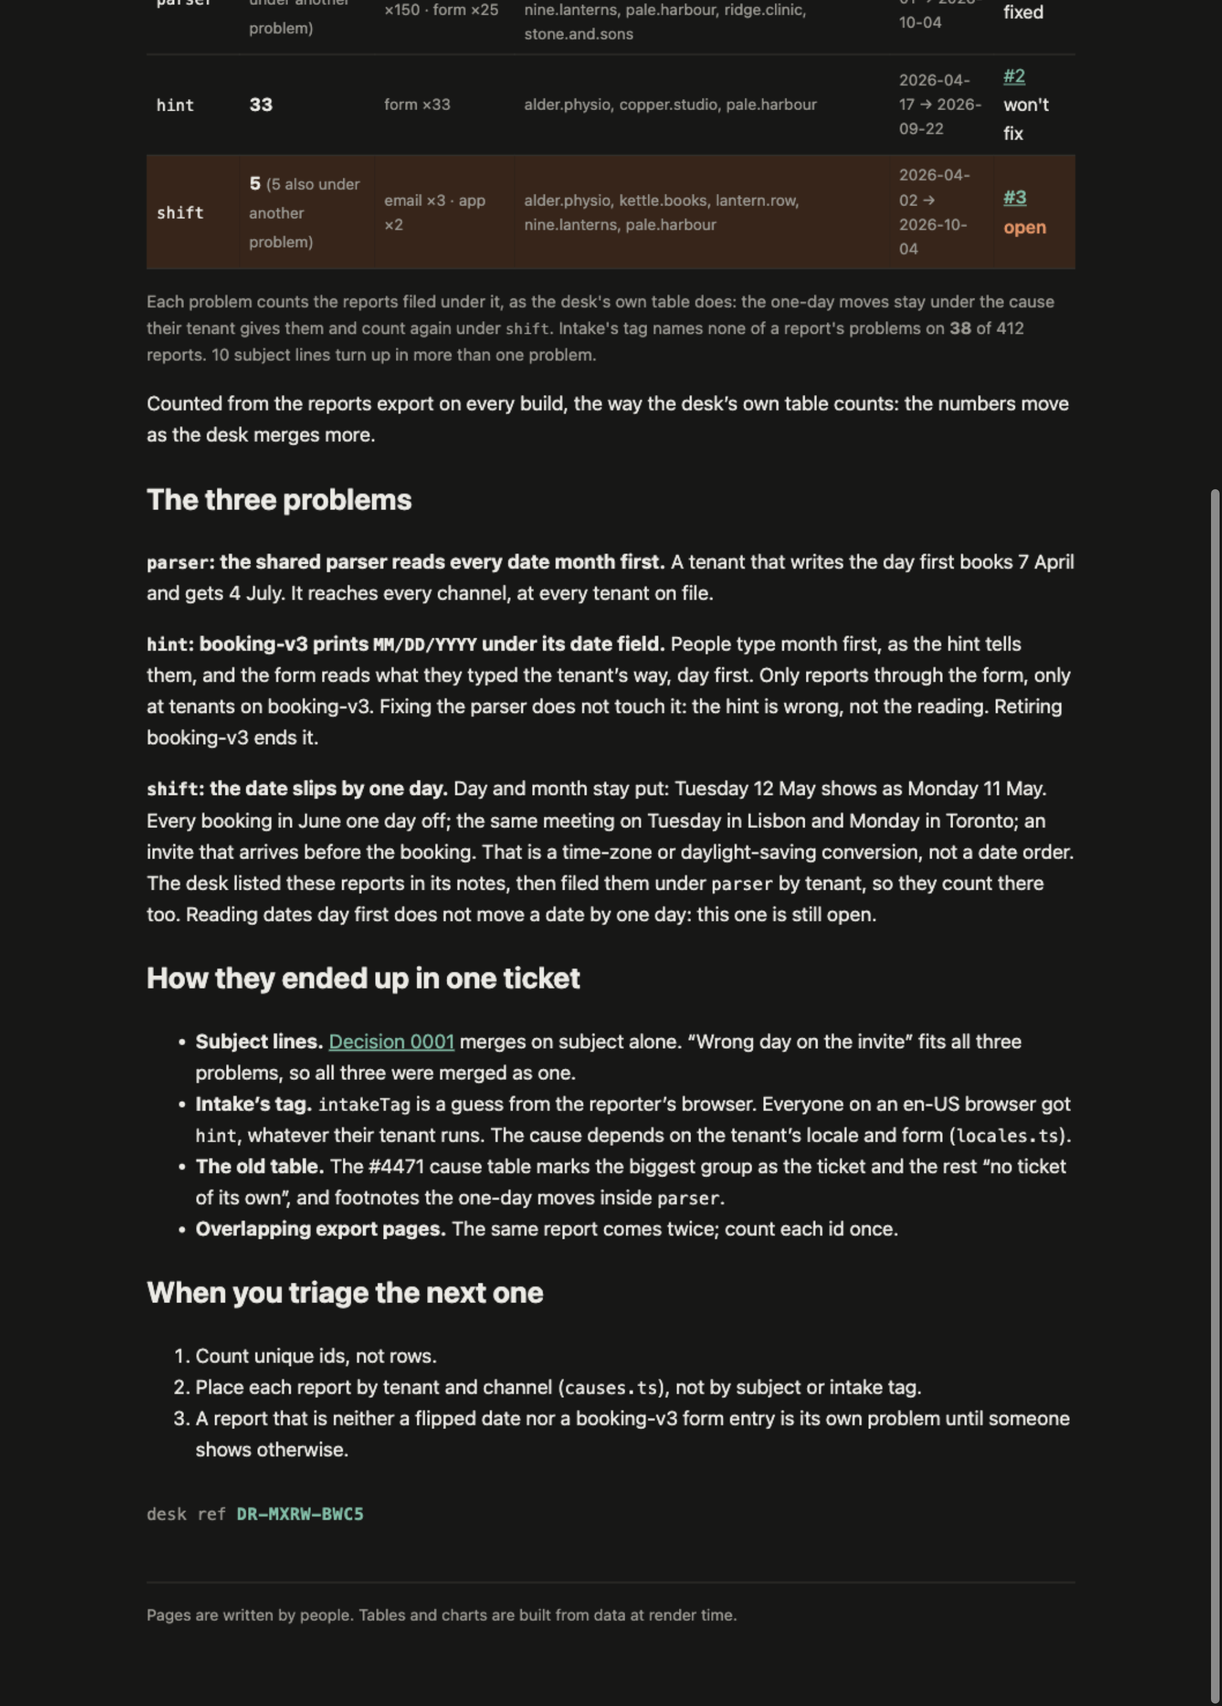
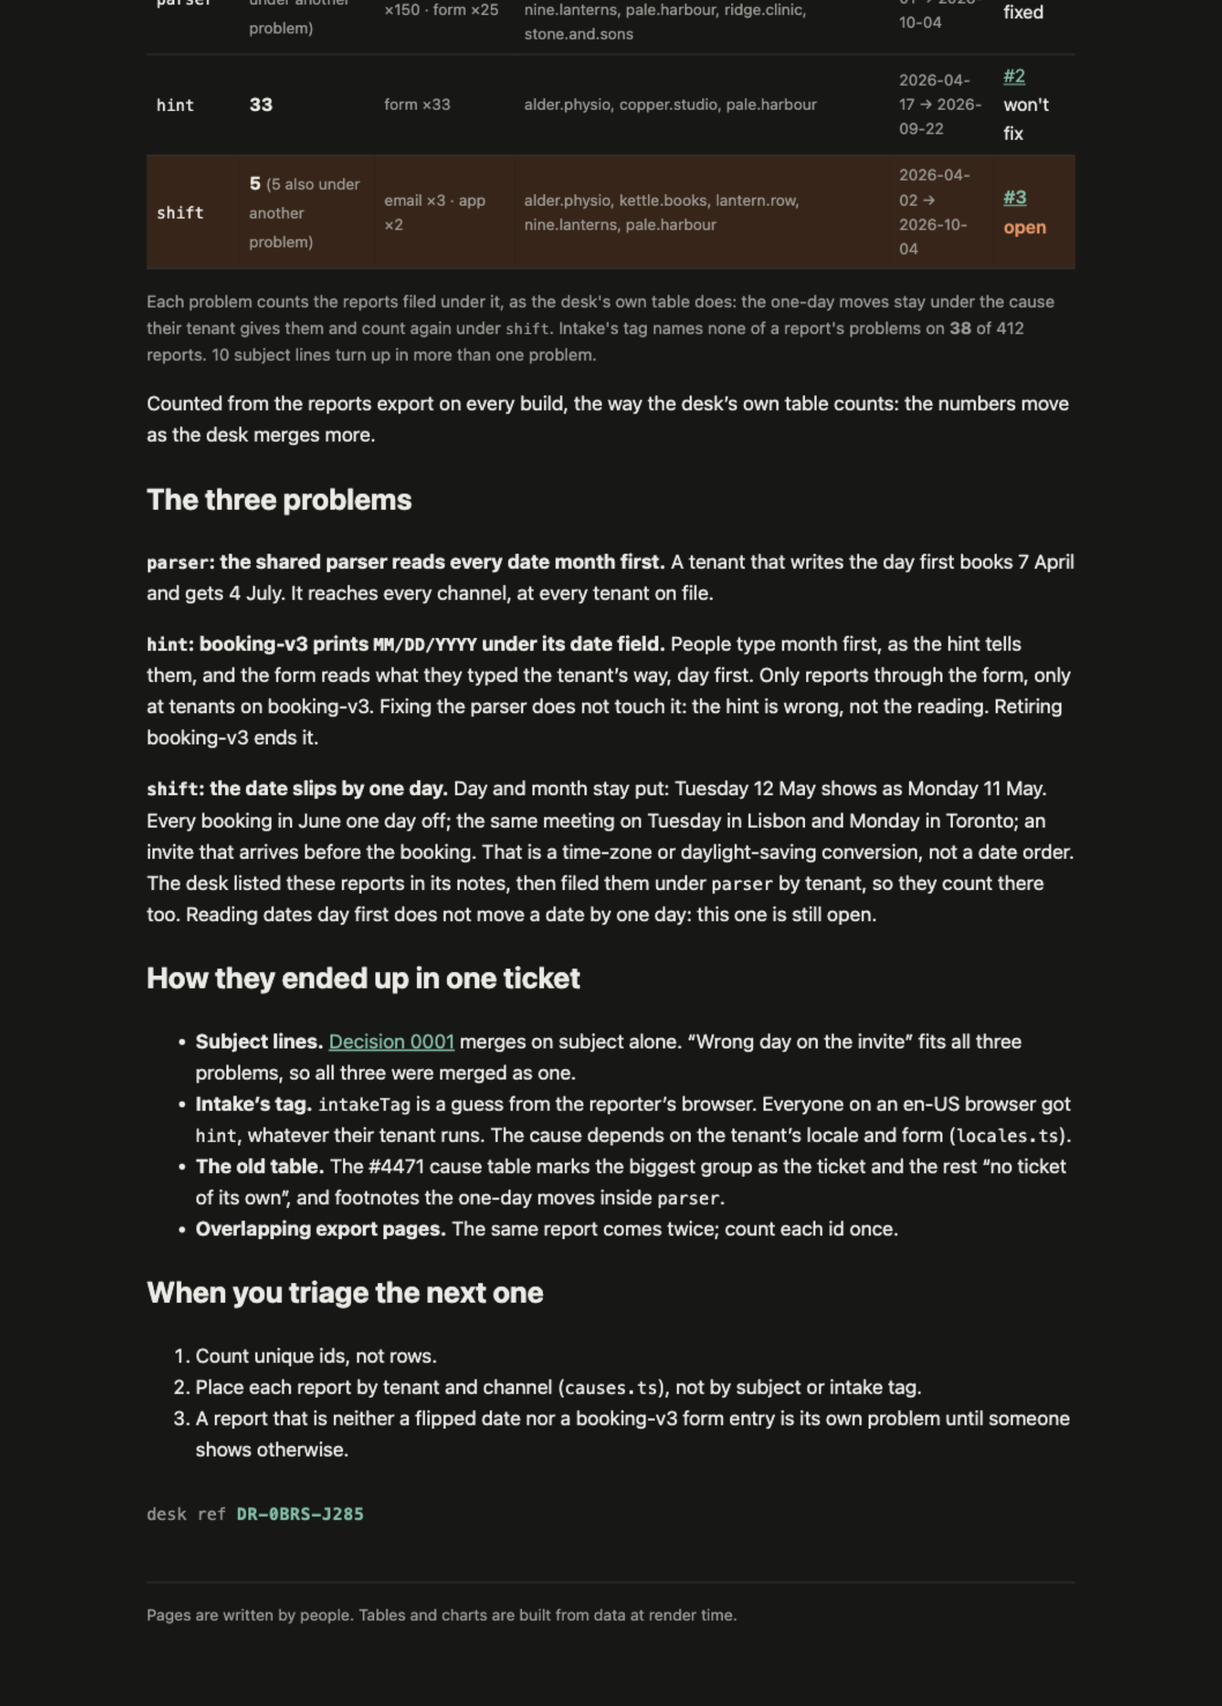
kb: sign the #4471 split page with the course ticket

Changed region(s): [[0.992, 0.2806, 1.0, 1.0], [0.217, 0.8731, 0.279, 0.9043]]

diff --git a/rendered/_app/immutable/chunks/CUmSeKXx.js b/rendered/_app/immutable/chunks/CUmSeKXx.js
@@ -2,7 +2,7 @@ import{t as e}from"./DK3Fl9T5.js";import{E as t,F as n,H as r,I as i,K as a,L as
   under the cause their tenant gives them and count again under <code>shift</code>. Intake's tag names none
   of a report's problems on <strong> </strong> </p>`,1);function L(e,t){p(t,!0);let a=y(t,`issues`,19,()=>({})),d=r(()=>M(T,t.ticket,k,E.oneDayMove)),x=e=>Object.entries(e).sort((e,t)=>t[1]-e[1]).map(([e,t])=>`${e} ×${t}`).join(` · `),S=e=>`#${e.split(`/`).pop()}`;var w=I(),D=i(w),O=n(D),A=o(O,!0),j=l(O),L=l(j),R=o(L,!0),z=l(L);b(D);var B=l(D,2),V=l(n(B));_(V,21,()=>v(d).groups,e=>e.problem,(e,t)=>{let d=r(()=>a()[v(t).problem]);var f=F();let p;var _=n(f),y=n(_),w=o(y,!0);b(_);var T=l(_),E=n(T),D=o(E,!0),O=l(E,2),k=e=>{var n=N(),r=o(n);s(()=>u(r,`(${v(t).shared??``} also under another problem)`)),C(e,n)};m(O,e=>{v(t).shared&&e(k)}),b(T);var A=l(T),j=o(A,!0),M=l(A),I=o(M,!0),L=l(M),R=o(L),z=l(L),B=n(z),V=e=>{var t=P(),n=i(t),r=o(n,!0),a=l(n);s(e=>{h(n,`href`,v(d).url),u(r,e),u(a,` ${v(d).state??``}`)},[()=>S(v(d).url)]),C(e,t)},H=e=>{var t=c(`no ticket yet`);C(e,t)};m(B,e=>{v(d)?e(V):e(H,-1)}),b(z),b(f),s((e,n)=>{p=g(f,1,`svelte-xskqqx`,null,p,{open:!v(d)||v(d).state===`open`}),u(w,v(t).problem),u(D,v(t).reports.length),u(j,e),u(I,n),u(R,`${v(t).firstSeen??``} → ${v(t).lastSeen??``}`)},[()=>x(v(t).channels),()=>v(t).tenants.join(`, `)]),C(e,f)}),b(V),b(B);var H=l(B,2),U=l(n(H),3),W=o(U,!0),G=l(U);b(H),s(()=>{u(A,v(d).merged.length),u(j,` reports merged into #${t.ticket??``}
   (${v(d).rows??``} rows in the export, ${v(d).rows-v(d).merged.length} of them repeats) · `),u(R,v(d).groups.length),u(z,` ${v(d).groups.length===1?`problem`:`problems`}`),u(W,v(d).mistagged),u(G,` of ${v(d).merged.length??``} reports.
-  ${v(d).sharedSubjects.length??``} subject lines turn up in more than one problem.`)}),C(e,w),f()}var R=`0123456789ABCDEFGHJKMNPQRSTVWXYZ`;function z(e,t){let n=t>>>0;for(let t=0;t<e.length;t++)n^=e.charCodeAt(t),n=Math.imul(n,16777619)>>>0;return n}function B(e){let t=e.trim(),n=z(t,2166136261),r=z(t,2654435769),i=BigInt(n)<<8n|BigInt(r&255),a=``;for(let e=0;e<8;e++)a=R[Number(i&31n)]+a,i>>=5n;return`DR-${a.slice(0,4)}-${a.slice(4)}`}var V=t(`<p class="stamp svelte-1280m42">desk ref <b class="svelte-1280m42"> </b></p>`),H=t(`<p class="stamp missing svelte-1280m42">no desk ref: this page isn't signed (no <code>signature</code> in its frontmatter)</p>`);function U(e,t){p(t,!0);let a=r(()=>t.signature?B(t.signature):null);var c=d(),h=i(c),g=e=>{var t=V(),r=l(n(t)),i=o(r,!0);b(t),s(()=>u(i,v(a))),C(e,t)},_=e=>{var t=H();C(e,t)};m(h,e=>{v(a)?e(g):e(_,-1)}),C(e,c),f()}var W=e({default:()=>$,metadata:()=>G}),G={layout:`runbook`,title:`#4471 split: three problems, not one`,owner:`support desk`,status:`open`,reviewed:`2026-10-28T00:00:00.000Z`,signature:`Diego Peter Luna`},{layout:K,title:q,owner:J,status:Y,reviewed:ee,signature:X}=G,Z=t(`#4471 is closed, but <code>shift</code> is not fixed: neither change touches it. Reports of dates one
+  ${v(d).sharedSubjects.length??``} subject lines turn up in more than one problem.`)}),C(e,w),f()}var R=`0123456789ABCDEFGHJKMNPQRSTVWXYZ`;function z(e,t){let n=t>>>0;for(let t=0;t<e.length;t++)n^=e.charCodeAt(t),n=Math.imul(n,16777619)>>>0;return n}function B(e){let t=e.trim(),n=z(t,2166136261),r=z(t,2654435769),i=BigInt(n)<<8n|BigInt(r&255),a=``;for(let e=0;e<8;e++)a=R[Number(i&31n)]+a,i>>=5n;return`DR-${a.slice(0,4)}-${a.slice(4)}`}var V=t(`<p class="stamp svelte-1280m42">desk ref <b class="svelte-1280m42"> </b></p>`),H=t(`<p class="stamp missing svelte-1280m42">no desk ref: this page isn't signed (no <code>signature</code> in its frontmatter)</p>`);function U(e,t){p(t,!0);let a=r(()=>t.signature?B(t.signature):null);var c=d(),h=i(c),g=e=>{var t=V(),r=l(n(t)),i=o(r,!0);b(t),s(()=>u(i,v(a))),C(e,t)},_=e=>{var t=H();C(e,t)};m(h,e=>{v(a)?e(g):e(_,-1)}),C(e,c),f()}var W=e({default:()=>$,metadata:()=>G}),G={layout:`runbook`,title:`#4471 split: three problems, not one`,owner:`support desk`,status:`open`,reviewed:`2026-10-28T00:00:00.000Z`,signature:`v1.eyJzdWIiOiIzNDQiLCJhdWQiOiJjaGFsbGVuZ2U6d2hhdC1pdC1zaG93cyIsImlhdCI6MTc5MzIwNzUzNCwiZXhwIjoxNzkzMjkzOTM0fQ.bRTobjvhvHYisSrKgQRkIaAMMaDitkZ7PEZmob9CIX8`},{layout:K,title:q,owner:J,status:Y,reviewed:ee,signature:X}=G,Z=t(`#4471 is closed, but <code>shift</code> is not fixed: neither change touches it. Reports of dates one
 day off keep coming in. Do not merge them into a closed ticket; they go to <code>shift</code>.`,1),Q=t(`<p><a href="/kb/incidents/4471">#4471</a> says every report in it is one bug: the parser reads dates month first.
 Read report by report, it holds three problems. Each has its own ticket.</p> <p>Engineering closed #4471 on 5 October: <code>parser</code> fixed (<code>fix(dates): parse dd/mm for eu locales</code>), <code>hint</code> won’t fix (the booking-v3 form is retired).</p> <!> <h2>The split</h2> <!> <p>Counted from the reports export on every build, the way the desk’s own table counts: the numbers move as the desk merges more.</p> <h2>The three problems</h2> <p><strong><code>parser</code>: the shared parser reads every date month first.</strong> A tenant that writes the day first
 books 7 April and gets 4 July. It reaches every channel, at every tenant on file.</p> <p><strong><code>hint</code>: booking-v3 prints <code>MM/DD/YYYY</code> under its date field.</strong> People type month first, as the hint

diff --git a/rendered/kb/incidents/4471-split.html b/rendered/kb/incidents/4471-split.html
@@ -9,11 +9,11 @@
 		<link href="../../_app/immutable/chunks/B2Ul7l_u.js" rel="modulepreload">
 		<link href="../../_app/immutable/chunks/BCPXOG7W.js" rel="modulepreload">
 		<link href="../../_app/immutable/chunks/Dh1V97Jm.js" rel="modulepreload">
-		<link href="../../_app/immutable/entry/app.DcC4sQon.js" rel="modulepreload">
+		<link href="../../_app/immutable/entry/app.DcuKkazr.js" rel="modulepreload">
 		<link href="../../_app/immutable/nodes/0.C9KfiiPz.js" rel="modulepreload">
 		<link href="../../_app/immutable/chunks/DK3Fl9T5.js" rel="modulepreload">
-		<link href="../../_app/immutable/nodes/5.CWqISRzL.js" rel="modulepreload">
-		<link href="../../_app/immutable/chunks/DwB3CDpc.js" rel="modulepreload">
+		<link href="../../_app/immutable/nodes/5.DaVnQy-G.js" rel="modulepreload">
+		<link href="../../_app/immutable/chunks/CUmSeKXx.js" rel="modulepreload">
 		<link href="../../_app/immutable/chunks/BTPwLomz.js" rel="modulepreload">
 		<link href="../../_app/immutable/chunks/CVBzP17p.js" rel="modulepreload">
 		<link href="../../_app/immutable/chunks/BIy4WKJS.js" rel="modulepreload">
@@ -39,20 +39,20 @@ invite that arrives before the booking. That is a time-zone or daylight-saving c
 order. The desk listed these reports in its notes, then filed them under <code>parser</code> by tenant, so they
 count there too. Reading dates day first does not move a date by one day: this one is still open.</p> <h2>How they ended up in one ticket</h2> <ul><li><strong>Subject lines.</strong> <a href="/kb/decisions/0001-dedupe-by-subject">Decision 0001</a> merges on subject alone.
 “Wrong day on the invite” fits all three problems, so all three were merged as one.</li> <li><strong>Intake’s tag.</strong> <code>intakeTag</code> is a guess from the reporter’s browser. Everyone on an en-US browser got <code>hint</code>, whatever their tenant runs. The cause depends on the tenant’s locale and form (<code>locales.ts</code>).</li> <li><strong>The old table.</strong> The #4471 cause table marks the biggest group as the ticket and the rest
-“no ticket of its own”, and footnotes the one-day moves inside <code>parser</code>.</li> <li><strong>Overlapping export pages.</strong> The same report comes twice; count each id once.</li></ul> <h2>When you triage the next one</h2> <ol><li>Count unique ids, not rows.</li> <li>Place each report by tenant and channel (<code>causes.ts</code>), not by subject or intake tag.</li> <li>A report that is neither a flipped date nor a booking-v3 form entry is its own problem until someone shows otherwise.</li></ol> <!--[0--><p class="stamp svelte-1280m42">desk ref <b class="svelte-1280m42">DR-MXRW-BWC5</b></p><!--]--><!----><!----></main> <footer class="svelte-e2jw2j">Pages are written by people. Tables and charts are built from data at render time.</footer></div><!--]--><!--]--><!--]--><!----><!--]--><!--]--><!--]--><!----> <!--[-1--><!--]--><!--]-->
+“no ticket of its own”, and footnotes the one-day moves inside <code>parser</code>.</li> <li><strong>Overlapping export pages.</strong> The same report comes twice; count each id once.</li></ul> <h2>When you triage the next one</h2> <ol><li>Count unique ids, not rows.</li> <li>Place each report by tenant and channel (<code>causes.ts</code>), not by subject or intake tag.</li> <li>A report that is neither a flipped date nor a booking-v3 form entry is its own problem until someone shows otherwise.</li></ol> <!--[0--><p class="stamp svelte-1280m42">desk ref <b class="svelte-1280m42">DR-0BRS-J285</b></p><!--]--><!----><!----></main> <footer class="svelte-e2jw2j">Pages are written by people. Tables and charts are built from data at render time.</footer></div><!--]--><!--]--><!--]--><!----><!--]--><!--]--><!--]--><!----> <!--[-1--><!--]--><!--]-->
 			
 			<script>
 				{
-					__sveltekit_12tmflj = {
+					__sveltekit_1jmv8e2 = {
 						base: new URL("../..", location).pathname.slice(0, -1),
-						version: "1793207479166"
+						version: "1793207543631"
 					};
 
 					const element = document.currentScript.parentElement;
 
 					import("../../_app/immutable/entry/start.CH5w6lId.js").then(async (kit) => {
-						kit.init(__sveltekit_12tmflj);
-						const app = await import("../../_app/immutable/entry/app.DcC4sQon.js");
+						kit.init(__sveltekit_1jmv8e2);
+						const app = await import("../../_app/immutable/entry/app.DcuKkazr.js");
 						kit.start(app, element, {
 							node_ids: [0, 5],
 							data: [null,null],

diff --git a/rendered/_app/immutable/nodes/2.Bb3njrUU.js b/rendered/_app/immutable/nodes/2.Bb3njrUU.js
@@ -1,0 +1,2 @@
+import{E as e,F as t,I as n,K as r,L as i,N as a,R as o,S as s,U as c,W as l,c as u,d,h as f,i as p,k as m,q as h,r as g,t as _,w as v}from"../chunks/BCPXOG7W.js";import{n as y,r as b,t as x}from"../chunks/BTPwLomz.js";import{t as S}from"../chunks/YX22L_Ud.js";import{t as C}from"../chunks/CgeRC4yK.js";import{t as w}from"../chunks/CUmSeKXx.js";import{t as T}from"../chunks/BGqJVSDw.js";var E=e(`<tr><td><a> </a></td><td> </td><td> </td><td> </td></tr>`),D=e(`<table><thead><tr><th>page</th><th>owner</th><th>status</th><th>reviewed</th></tr></thead><tbody></tbody></table>`);function O(e,n){l(n,!1);let r=Object.entries(Object.assign({"/src/routes/kb/decisions/0001-dedupe-by-subject/+page.svx":S,"/src/routes/kb/incidents/4471/+page.svx":C,"/src/routes/kb/incidents/4471-split/+page.svx":w,"/src/routes/kb/triage/dedupe/+page.svx":T})).map(([e,t])=>({href:e.replace(`/src/routes`,``).replace(`/+page.svx`,``),...t.metadata})).sort((e,t)=>e.href.localeCompare(t.href));p();var g=D(),_=o(t(g));f(_,5,()=>r,e=>e.href,(e,n)=>{var r=E(),c=t(r),l=t(c),f=i(l,!0);h(c);var p=o(c),g=i(p,!0),_=o(p),x=i(_,!0),S=o(_);let C;var w=i(S,!0);h(r),a((e,t)=>{u(l,`href`,m(n).href),s(f,m(n).title),s(g,m(n).owner),s(x,m(n).status),C=d(S,1,`svelte-tbc1ha`,null,C,{stale:e}),s(w,t)},[()=>y(m(n).reviewed)>180,()=>b(m(n).reviewed)]),v(e,r)}),h(_),h(g),v(e,g),c()}var k={layout:`runbook`,title:`Support knowledge base`,owner:`support desk`,status:`living`,reviewed:`2026-09-28T00:00:00.000Z`},{layout:A,title:j,owner:M,status:N,reviewed:P}=k,F=e(`<p>What the support desk knows, kept next to the code that knows it. One desk, every product: <code>sched-prod</code> (calendar invites for about 300k people) and the rest. When something breaks, the reports land here first.</p> <p>Start with <a href="/kb/triage/dedupe">triage</a> if you are new on the desk.</p> <h2>Pages</h2> <!> <h2>Writing a page</h2> <p>Keep the words here and the logic in <code>src/lib</code>. A number that can be computed should be
+computed by a component, not typed into a paragraph.</p>`,1);function I(e,t){let i=_(t,[`children`,`$$slots`,`$$events`,`$$legacy`]);x(e,g(()=>i,()=>k,{children:(e,t)=>{var i=F();O(o(n(i),6),{}),r(4),v(e,i)},$$slots:{default:!0}}))}export{I as component};

diff --git a/rendered/kb.html b/rendered/kb.html
@@ -9,16 +9,16 @@
 		<link href="./_app/immutable/chunks/B2Ul7l_u.js" rel="modulepreload">
 		<link href="./_app/immutable/chunks/BCPXOG7W.js" rel="modulepreload">
 		<link href="./_app/immutable/chunks/Dh1V97Jm.js" rel="modulepreload">
-		<link href="./_app/immutable/entry/app.DcC4sQon.js" rel="modulepreload">
+		<link href="./_app/immutable/entry/app.DcuKkazr.js" rel="modulepreload">
 		<link href="./_app/immutable/nodes/0.C9KfiiPz.js" rel="modulepreload">
 		<link href="./_app/immutable/chunks/DK3Fl9T5.js" rel="modulepreload">
-		<link href="./_app/immutable/nodes/2.lza3z1pO.js" rel="modulepreload">
+		<link href="./_app/immutable/nodes/2.Bb3njrUU.js" rel="modulepreload">
 		<link href="./_app/immutable/chunks/BTPwLomz.js" rel="modulepreload">
 		<link href="./_app/immutable/chunks/YX22L_Ud.js" rel="modulepreload">
 		<link href="./_app/immutable/chunks/CgeRC4yK.js" rel="modulepreload">
 		<link href="./_app/immutable/chunks/CVBzP17p.js" rel="modulepreload">
 		<link href="./_app/immutable/chunks/BIy4WKJS.js" rel="modulepreload">
-		<link href="./_app/immutable/chunks/DwB3CDpc.js" rel="modulepreload">
+		<link href="./_app/immutable/chunks/CUmSeKXx.js" rel="modulepreload">
 		<link href="./_app/immutable/chunks/BGqJVSDw.js" rel="modulepreload">
 		<!--e2jw2j--><!----><title>Support knowledge base · support kb</title>
 		<link href="./_app/immutable/assets/runbook.COyw0cbZ.css" rel="stylesheet">
@@ -34,16 +34,16 @@ computed by a component, not typed into a paragraph.</p><!----></main> <footer c
 			
 			<script>
 				{
-					__sveltekit_12tmflj = {
+					__sveltekit_1jmv8e2 = {
 						base: new URL(".", location).pathname.slice(0, -1),
-						version: "1793207479166"
+						version: "1793207543631"
 					};
 
 					const element = document.currentScript.parentElement;
 
 					import("./_app/immutable/entry/start.CH5w6lId.js").then(async (kit) => {
-						kit.init(__sveltekit_12tmflj);
-						const app = await import("./_app/immutable/entry/app.DcC4sQon.js");
+						kit.init(__sveltekit_1jmv8e2);
+						const app = await import("./_app/immutable/entry/app.DcuKkazr.js");
 						kit.start(app, element, {
 							node_ids: [0, 2],
 							data: [null,null],

diff --git a/rendered/_app/immutable/entry/app.DcuKkazr.js b/rendered/_app/immutable/entry/app.DcuKkazr.js
@@ -1,0 +1,2 @@
+const __vite__mapDeps=(i,m=__vite__mapDeps,d=(m.f||(m.f=["../nodes/0.C9KfiiPz.js","../chunks/DK3Fl9T5.js","../chunks/BCPXOG7W.js","../nodes/1.mOwa9YdW.js","../chunks/Dh1V97Jm.js","./payload.DSmR2FwN.js","../nodes/2.Bb3njrUU.js","../chunks/BTPwLomz.js","../assets/runbook.COyw0cbZ.css","../chunks/YX22L_Ud.js","../chunks/CgeRC4yK.js","../chunks/CVBzP17p.js","../chunks/BIy4WKJS.js","../assets/Callout.AbLv9dM_.css","../assets/_page.D56XP2ro.css","../chunks/CUmSeKXx.js","../assets/_page.-ZyW0LFx.css","../chunks/BGqJVSDw.js","../assets/_page.DO6Yid7X.css","../assets/2.Bt0MwIZg.css","../nodes/3.DRxPfvn3.js","../nodes/4.rt2PfD_4.js","../nodes/5.DaVnQy-G.js","../nodes/6.sFtxrtyV.js"])))=>i.map(i=>d[i]);
+import{t as e}from"../chunks/CRzLMJPS.js";var t={},n=[()=>e(()=>import(`../nodes/0.C9KfiiPz.js`),__vite__mapDeps([0,1,2]),import.meta.url),()=>e(()=>import(`../nodes/1.mOwa9YdW.js`),__vite__mapDeps([3,2,4,5]),import.meta.url),()=>e(()=>import(`../nodes/2.Bb3njrUU.js`),__vite__mapDeps([6,2,7,8,9,1,10,11,12,13,14,15,16,17,18,19]),import.meta.url),()=>e(()=>import(`../nodes/3.DRxPfvn3.js`),__vite__mapDeps([20,9,1,2,7,8]),import.meta.url),()=>e(()=>import(`../nodes/4.rt2PfD_4.js`),__vite__mapDeps([21,10,1,2,7,8,11,12,13,14]),import.meta.url),()=>e(()=>import(`../nodes/5.DaVnQy-G.js`),__vite__mapDeps([22,15,1,2,7,8,11,12,13,16]),import.meta.url),()=>e(()=>import(`../nodes/6.sFtxrtyV.js`),__vite__mapDeps([23,17,1,2,7,8,12,13,18]),import.meta.url)],r=[],i={"/kb":[2],"/kb/decisions/0001-dedupe-by-subject":[3],"/kb/incidents/4471-split":[5],"/kb/incidents/4471":[4],"/kb/triage/dedupe":[6]},a={handleError:(({kind:e,error:t})=>{e===`unknown`&&console.error(t)}),reroute:(()=>{}),transport:{}},o=Object.fromEntries(Object.entries(a.transport).map(([e,t])=>[e,t.decode])),s=Object.fromEntries(Object.entries(a.transport).map(([e,t])=>[e,t.encode])),c=!1,l=(e,t)=>o[e](t),u=()=>e(()=>import(`../chunks/Bjy-W4x2.js`).then(e=>e.default),[],import.meta.url);export{l as decode,o as decoders,i as dictionary,s as encoders,u as get_error_template,c as hash,a as hooks,t as matchers,n as nodes,r as server_loads};

diff --git a/rendered/kb/decisions/0001-dedupe-by-subject.html b/rendered/kb/decisions/0001-dedupe-by-subject.html
@@ -9,7 +9,7 @@
 		<link href="../../_app/immutable/chunks/B2Ul7l_u.js" rel="modulepreload">
 		<link href="../../_app/immutable/chunks/BCPXOG7W.js" rel="modulepreload">
 		<link href="../../_app/immutable/chunks/Dh1V97Jm.js" rel="modulepreload">
-		<link href="../../_app/immutable/entry/app.DcC4sQon.js" rel="modulepreload">
+		<link href="../../_app/immutable/entry/app.DcuKkazr.js" rel="modulepreload">
 		<link href="../../_app/immutable/nodes/0.C9KfiiPz.js" rel="modulepreload">
 		<link href="../../_app/immutable/chunks/DK3Fl9T5.js" rel="modulepreload">
 		<link href="../../_app/immutable/nodes/3.DRxPfvn3.js" rel="modulepreload">
@@ -26,16 +26,16 @@ engineering merges them later.</li></ul><!----></main> <footer class="svelte-e2j
 			
 			<script>
 				{
-					__sveltekit_12tmflj = {
+					__sveltekit_1jmv8e2 = {
 						base: new URL("../..", location).pathname.slice(0, -1),
-						version: "1793207479166"
+						version: "1793207543631"
 					};
 
 					const element = document.currentScript.parentElement;
 
 					import("../../_app/immutable/entry/start.CH5w6lId.js").then(async (kit) => {
-						kit.init(__sveltekit_12tmflj);
-						const app = await import("../../_app/immutable/entry/app.DcC4sQon.js");
+						kit.init(__sveltekit_1jmv8e2);
+						const app = await import("../../_app/immutable/entry/app.DcuKkazr.js");
 						kit.start(app, element, {
 							node_ids: [0, 3],
 							data: [null,null],

diff --git a/rendered/kb/incidents/4471.html b/rendered/kb/incidents/4471.html
@@ -9,7 +9,7 @@
 		<link href="../../_app/immutable/chunks/B2Ul7l_u.js" rel="modulepreload">
 		<link href="../../_app/immutable/chunks/BCPXOG7W.js" rel="modulepreload">
 		<link href="../../_app/immutable/chunks/Dh1V97Jm.js" rel="modulepreload">
-		<link href="../../_app/immutable/entry/app.DcC4sQon.js" rel="modulepreload">
+		<link href="../../_app/immutable/entry/app.DcuKkazr.js" rel="modulepreload">
 		<link href="../../_app/immutable/nodes/0.C9KfiiPz.js" rel="modulepreload">
 		<link href="../../_app/immutable/chunks/DK3Fl9T5.js" rel="modulepreload">
 		<link href="../../_app/immutable/nodes/4.rt2PfD_4.js" rel="modulepreload">
@@ -29,16 +29,16 @@ first. The fix is queued.</p> <aside class="note svelte-17bri61"><!---->Known. O
 			
 			<script>
 				{
-					__sveltekit_12tmflj = {
+					__sveltekit_1jmv8e2 = {
 						base: new URL("../..", location).pathname.slice(0, -1),
-						version: "1793207479166"
+						version: "1793207543631"
 					};
 
 					const element = document.currentScript.parentElement;
 
 					import("../../_app/immutable/entry/start.CH5w6lId.js").then(async (kit) => {
-						kit.init(__sveltekit_12tmflj);
-						const app = await import("../../_app/immutable/entry/app.DcC4sQon.js");
+						kit.init(__sveltekit_1jmv8e2);
+						const app = await import("../../_app/immutable/entry/app.DcuKkazr.js");
 						kit.start(app, element, {
 							node_ids: [0, 4],
 							data: [null,null],

diff --git a/rendered/kb/triage/dedupe.html b/rendered/kb/triage/dedupe.html
@@ -9,7 +9,7 @@
 		<link href="../../_app/immutable/chunks/B2Ul7l_u.js" rel="modulepreload">
 		<link href="../../_app/immutable/chunks/BCPXOG7W.js" rel="modulepreload">
 		<link href="../../_app/immutable/chunks/Dh1V97Jm.js" rel="modulepreload">
-		<link href="../../_app/immutable/entry/app.DcC4sQon.js" rel="modulepreload">
+		<link href="../../_app/immutable/entry/app.DcuKkazr.js" rel="modulepreload">
 		<link href="../../_app/immutable/nodes/0.C9KfiiPz.js" rel="modulepreload">
 		<link href="../../_app/immutable/chunks/DK3Fl9T5.js" rel="modulepreload">
 		<link href="../../_app/immutable/nodes/6.sFtxrtyV.js" rel="modulepreload">
@@ -29,16 +29,16 @@ anything else.<!----></aside><!----> <h2>Try it</h2> <div class="try svelte-gq0h
 			
 			<script>
 				{
-					__sveltekit_12tmflj = {
+					__sveltekit_1jmv8e2 = {
 						base: new URL("../..", location).pathname.slice(0, -1),
-						version: "1793207479166"
+						version: "1793207543631"
 					};
 
 					const element = document.currentScript.parentElement;
 
 					import("../../_app/immutable/entry/start.CH5w6lId.js").then(async (kit) => {
-						kit.init(__sveltekit_12tmflj);
-						const app = await import("../../_app/immutable/entry/app.DcC4sQon.js");
+						kit.init(__sveltekit_1jmv8e2);
+						const app = await import("../../_app/immutable/entry/app.DcuKkazr.js");
 						kit.start(app, element, {
 							node_ids: [0, 6],
 							data: [null,null],

diff --git a/rendered/_app/immutable/nodes/5.DaVnQy-G.js b/rendered/_app/immutable/nodes/5.DaVnQy-G.js
@@ -1,0 +1,1 @@
+export{n as component}from"../chunks/CUmSeKXx.js";
